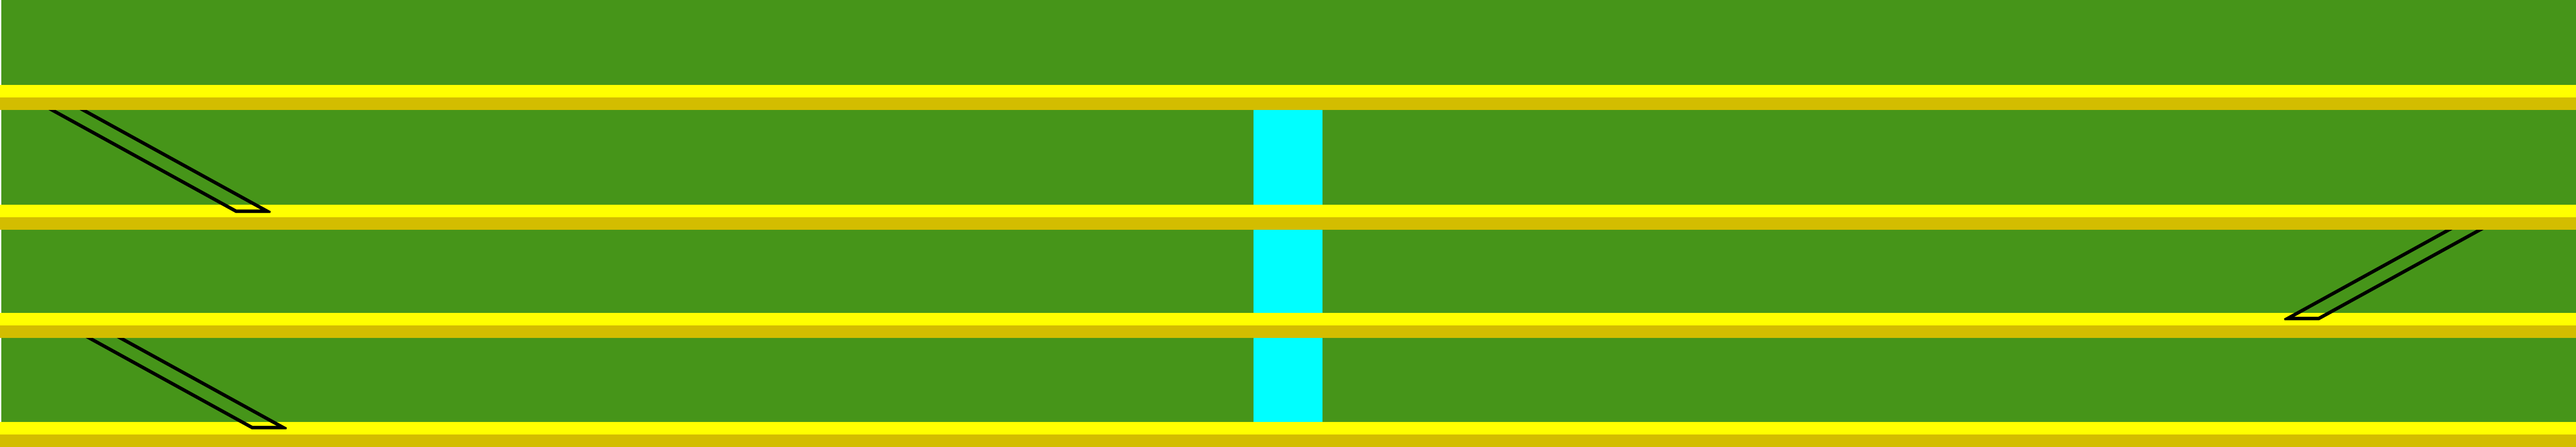
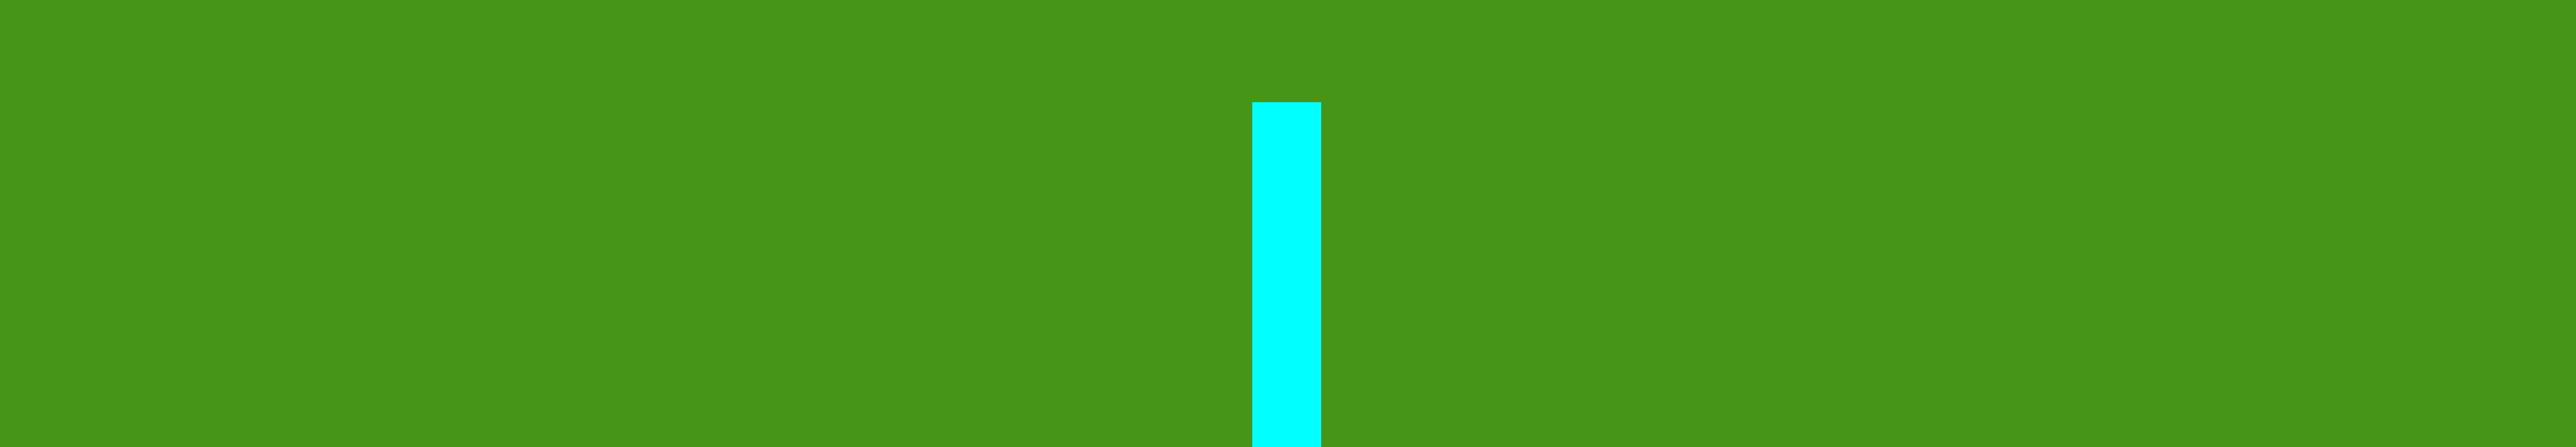
transformando escada e plataforma em objetos

diff --git a/scenes.py b/scenes.py
@@ -9,7 +9,7 @@ from pygame import HWSURFACE
 from camera import Camera
 from camera import complex_camera
 
-from sprites import Ball
+from sprites import Ball, Platform, Ladder
 
 FLAGS = FULLSCREEN | HWSURFACE | DOUBLEBUF
 
@@ -42,6 +42,14 @@ class GameScene(Scene):
         self.camera = Rect(self.bg_size[0]-size[0], 0, *size)
         self.release_ball = False
         self.ball_cooldown = 20
+        self.sprites.add(
+            Ladder((30, self.bg_size[1] - 115)),
+            Platform((0, self.bg_size[1] - 140)),
+            Ladder((650, self.bg_size[1] - 260), side='left'),
+            Platform((0, self.bg_size[1] - 280)),
+            Platform((0, self.bg_size[1] - 420)),
+            Ladder((30, self.bg_size[1] - 400)),
+            Platform((0, self.bg_size[1])))
 
     def draw(self):
         self.screen.blit(self.bg, (0, 0), self.camera)

diff --git a/sprites.py b/sprites.py
@@ -13,3 +13,22 @@ class Ball(Sprite):
 
     def update(self):
         self.rect = self.rect.move(10, 0)
+
+
+class Ladder(Sprite):
+	def __init__(self, position, side='right'):
+		super().__init__()
+		self.image = pygame.image.load('ladder.png').convert_alpha()
+		if side == 'left':
+			self.image = pygame.transform.flip(self.image, True, False)
+		self.rect = self.image.get_rect()
+		self.rect = self.rect.move(position)
+
+
+class Platform(Sprite):
+
+	def __init__(self, position):
+		super().__init__()
+		self.image = pygame.image.load('platform.png').convert()
+		self.rect = self.image.get_rect()
+		self.rect = self.rect.move(position)
